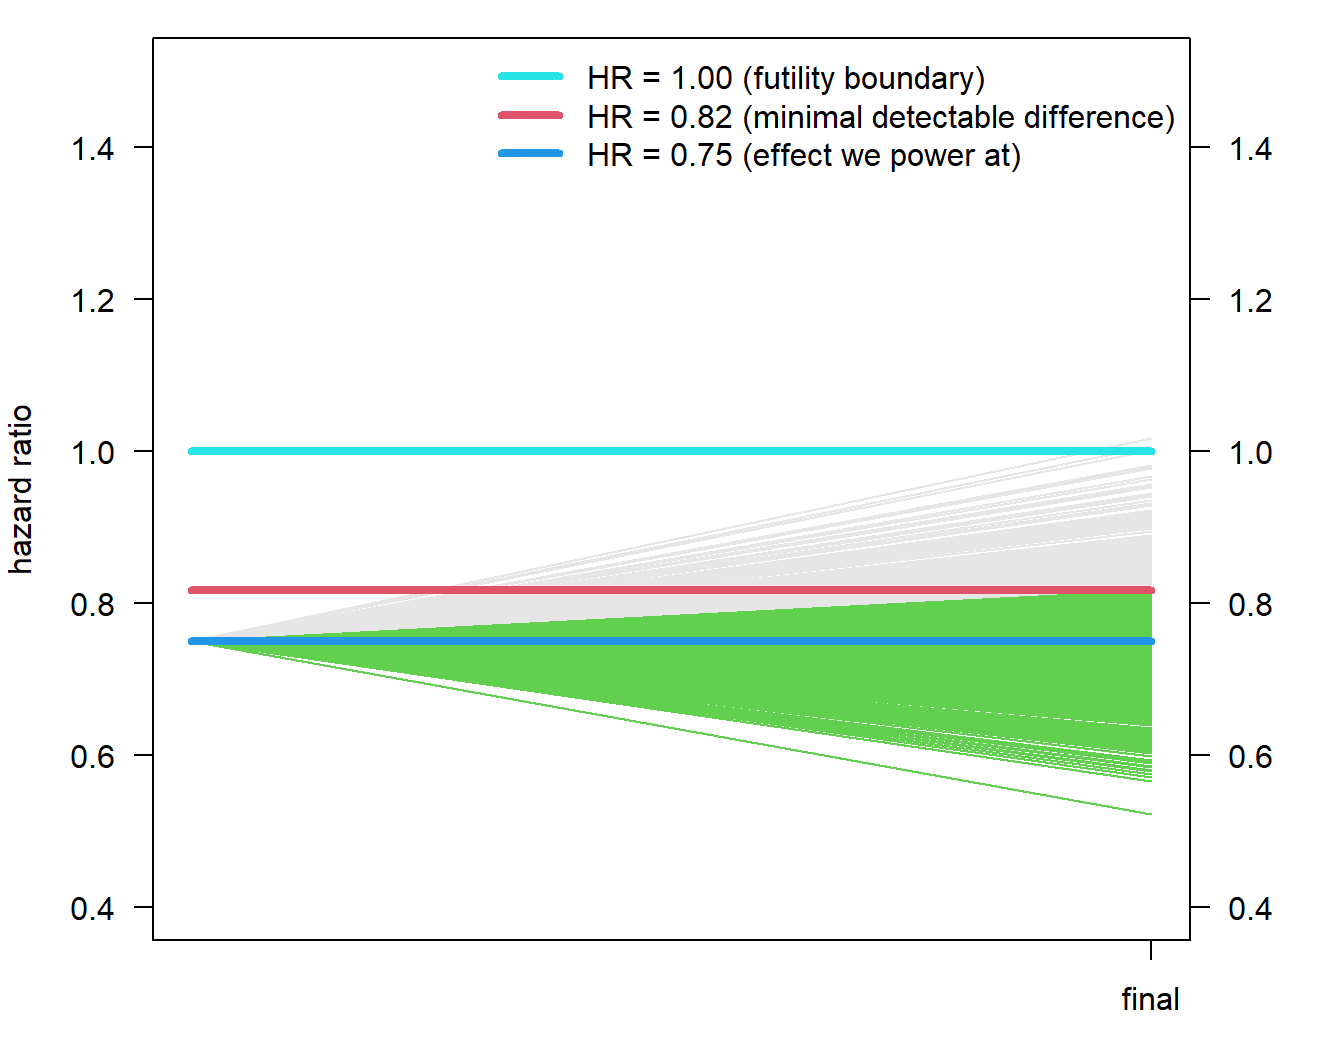
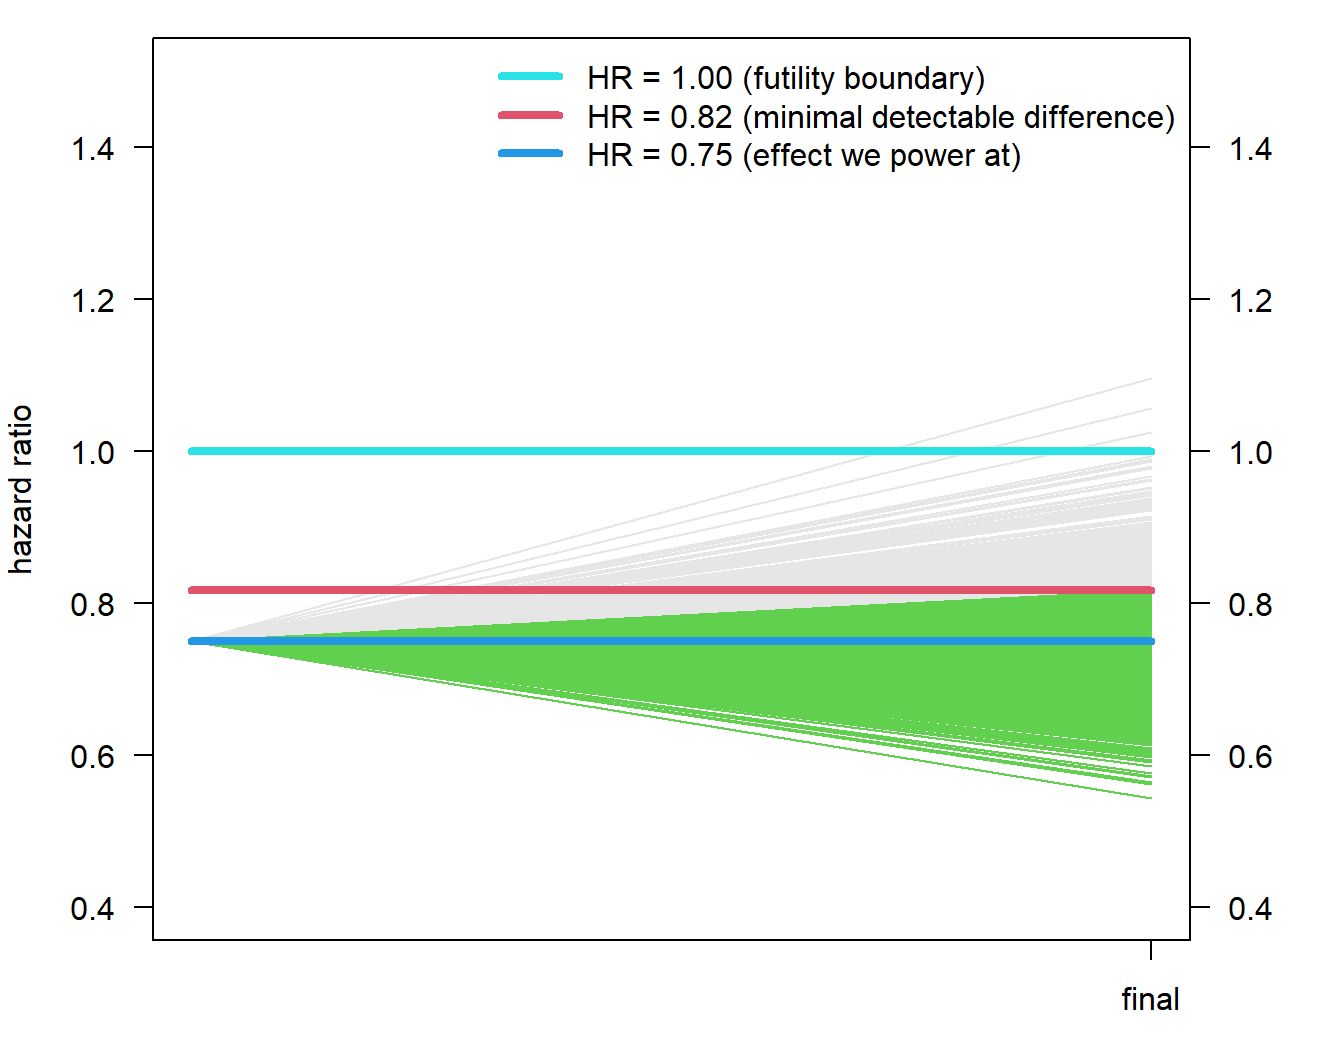
updat

diff --git a/docs/code/futility_fp/20240306_futility_fp.html b/docs/code/futility_fp/20240306_futility_fp.html
@@ -8,7 +8,7 @@
 
 <meta name="author" content="Kaspar Rufibach, 6th March 2024">
 
-<title>Kaspar Rufibach, biostatistician - False-positive risk when adding a futility interim analysis to a clinical trial</title>
+<title>Kaspar Rufibach, biostatistician - False-positive risk (power loss) when adding a futility interim analysis to a clinical trial</title>
 <style>
 code{white-space: pre-wrap;}
 span.smallcaps{font-variant: small-caps;}
@@ -184,6 +184,7 @@ pre > code.sourceCode > span > a:first-child::before { text-decoration: underlin
    
   <ul>
   <li><a href="#purpose-of-this-document" id="toc-purpose-of-this-document" class="nav-link active" data-scroll-target="#purpose-of-this-document">Purpose of this document</a></li>
+  <li><a href="#acknowldegments" id="toc-acknowldegments" class="nav-link" data-scroll-target="#acknowldegments">Acknowldegments</a></li>
   <li><a href="#setup-and-definition-of-functions" id="toc-setup-and-definition-of-functions" class="nav-link" data-scroll-target="#setup-and-definition-of-functions">Setup and definition of functions</a></li>
   <li><a href="#trial-design" id="toc-trial-design" class="nav-link" data-scroll-target="#trial-design">Trial design</a></li>
   <li><a href="#simulation-of-trials-with-and-without-futility-interim-analysis" id="toc-simulation-of-trials-with-and-without-futility-interim-analysis" class="nav-link" data-scroll-target="#simulation-of-trials-with-and-without-futility-interim-analysis">Simulation of trials with and without futility interim analysis</a></li>
@@ -196,7 +197,7 @@ pre > code.sourceCode > span > a:first-child::before { text-decoration: underlin
 
 <header id="title-block-header" class="quarto-title-block default">
 <div class="quarto-title">
-<h1 class="title">False-positive risk when adding a futility interim analysis to a clinical trial</h1>
+<h1 class="title">False-positive risk (power loss) when adding a futility interim analysis to a clinical trial</h1>
 </div>
 
 
@@ -219,7 +220,11 @@ pre > code.sourceCode > span > a:first-child::before { text-decoration: underlin
 
 <section id="purpose-of-this-document" class="level1">
 <h1>Purpose of this document</h1>
-<p>This R markdown file accompanies this <a href="https://www.linkedin.com/posts/kasparrufibach_here-is-a-question-for-anyone-working-on-activity-7094488116748529664-9TYr?utm_source=share&amp;utm_medium=member_desktop">linkedin post</a>, provides the code to reproduce computations, and much more. I also talked about this topic at the first 2024 <a href="https://theeffectivestatistician.com/welcome-to-the-effective-statistician-conference-2024/">effective statistician conference</a>, find my slides <a href="https://numbersman77.github.io/kasparrufibach/files/talks/20240215_Rufibach_Futility.pdf">here</a></p>
+<p>This R markdown file accompanies this <a href="https://www.linkedin.com/feed/update/urn:li:activity:7171170319980871680/">linkedin post</a>, provides the code to reproduce computations, and much more. I also talked about this topic at the first 2024 <a href="https://theeffectivestatistician.com/welcome-to-the-effective-statistician-conference-2024/">effective statistician conference</a>, find my slides <a href="https://numbersman77.github.io/kasparrufibach/files/talks/20240215_Rufibach_Futility.pdf">here</a></p>
+</section>
+<section id="acknowldegments" class="level1">
+<h1>Acknowldegments</h1>
+<p>I talk(ed) a lot about this broad topic with my Roche colleagues Marcel Wolbers, Jenny Devenport, Gian Thanei, Jianmei Wang, Gaelle Klingelschmitt, Uli Burger, and many others.</p>
 </section>
 <section id="setup-and-definition-of-functions" class="level1">
 <h1>Setup and definition of functions</h1>
@@ -491,7 +496,7 @@ pre > code.sourceCode > span > a:first-child::before { text-decoration: underlin
 </section>
 <section id="quantification-of-power-loss-of-interim-analysis-and-graphical-illustration" class="level1">
 <h1>Quantification of power loss of interim analysis, and graphical illustration</h1>
-<p>We have now 1000 simulated trials with a hazard ratio estimate at the interim and final analysis. First, let us plot results assuming there would be no interim analysis. The horizontal lines correspond to the futility boundary, the minimal detectable difference (i.e.&nbsp;the hazard ratio we need to observe at the final analysis to be statistically significant), and the hazard ratio for which we specified the sample size to have 80% power at. They grey lines illustrate the hazard ratios we observe at the final analysis using these assumptions, with green lines those trials that would be statistically significant, i.e.&nbsp;land below the red horizontal line. These are 81.5% of trials (an estimate of the power).</p>
+<p>We have now 1000 simulated trials with a hazard ratio estimate at the interim and final analysis. First, let us plot results assuming there would be no interim analysis. The horizontal lines correspond to the futility boundary, the minimal detectable difference (i.e.&nbsp;the hazard ratio we need to observe at the final analysis to be statistically significant), and the hazard ratio for which we specified the sample size to have 80% power at. They grey lines illustrate the hazard ratios we observe at the final analysis using these assumptions, with green lines those trials that would be statistically significant, i.e.&nbsp;land below the red horizontal line. These are 78.1% of trials (an estimate of the power).</p>
 <div class="cell" data-layout-align="center">
 <div class="quarto-figure quarto-figure-center">
 <figure class="figure">
@@ -511,7 +516,7 @@ pre > code.sourceCode > span > a:first-child::before { text-decoration: underlin
 </figure>
 </div>
 </div>
-<p>The plot above indicates those 2.0% of trials that would be erronously stopped at the futility interim analysis. This is what is typically called the <font color="red">power loss</font> of the futility interim analysis.</p>
+<p>The plot above indicates those 2.4% of trials that would be erronously stopped at the futility interim analysis. This is what is typically called the <font color="red">power loss</font> of the futility interim analysis.</p>
 
 
 </section>

diff --git a/docs/software.html b/docs/software.html
@@ -272,7 +272,7 @@ ul.task-list li input[type="checkbox"] {
 <tr class="odd">
 <td style="text-align: left;">3</td>
 <td style="text-align: left;">2024</td>
-<td style="text-align: left;"><em>Illustrate false-positive risk of a futility interim analysis</em>. | <a href="https://numbersman77.github.io/kasparrufibach/code/futility_fp/20240306_futility_fp.html">markdown</a> |</td>
+<td style="text-align: left;"><em>Illustrate false-positive risk of a futility interim analysis</em>. | <a href="https://www.linkedin.com/feed/update/urn:li:activity:7171170319980871680/">project webpage</a> | <a href="https://numbersman77.github.io/kasparrufibach/code/futility_fp/20240306_futility_fp.html">markdown</a> |</td>
 </tr>
 <tr class="even">
 <td style="text-align: left;">2</td>
